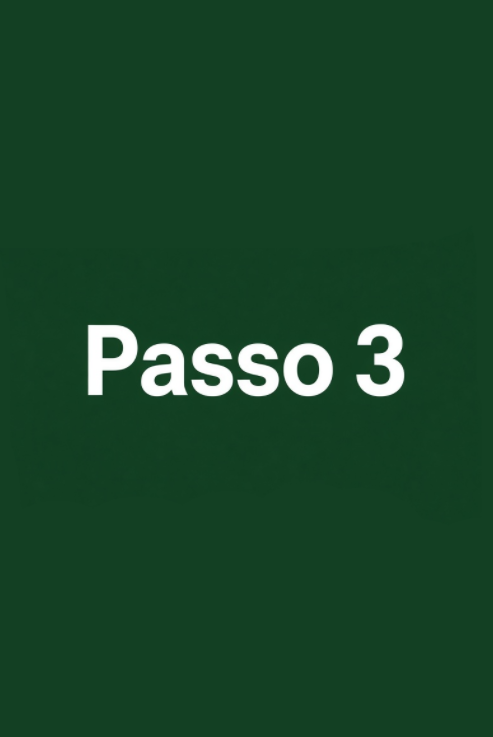
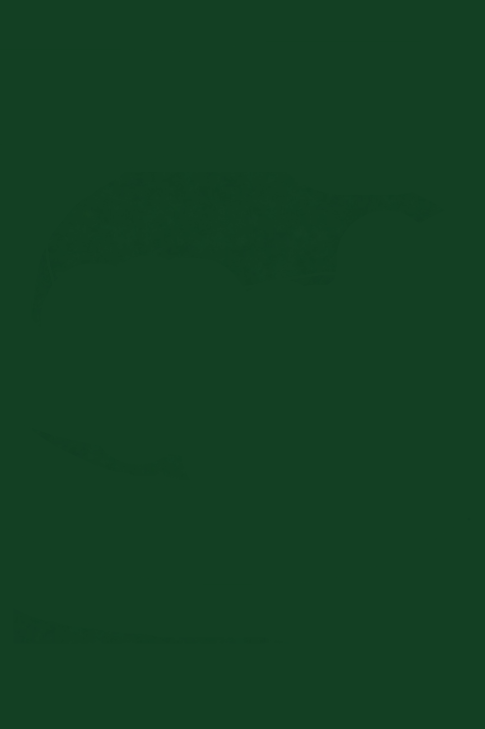
quase que acabei os passos.

Changed region(s): [[0.1546, 0.4225, 0.6804, 0.5432], [0.7113, 0.4225, 0.8351, 0.5432]]

diff --git a/index.html b/index.html
@@ -9,10 +9,8 @@
 </head>
 <body>
         <nav class="navBar">
-           <div class="logo-container">
                 <img class="logo1" src="assets/images/Logo.png">
                 <div class="logo">Eco Code Mobile</div>
-         </div>
                 <aside class="menu-navegação">
                       <!-- Menu-->
                       
@@ -37,16 +35,8 @@
 
     <main>
         <section class="texto-campanha">
-            
-            <p class="primeiro-texto">
-                
-                A reciclagem de equipamentos eletrónicos está a tornar-se cada vez mais importante, ajudando a reduzir o impacto ambiental causado pelo lixo tecnológico.
-            </p>
-
-            <p class="segundo-texto">
-                Mas o que acontece aos telemóveis Android que deixam de ser utilizados? Sem uma reciclagem adequada, podem contribuir para a poluição ambiental.
-            </p>
-
+            <p class="primeiro-texto">A reciclagem de equipamentos eletrónicos está a tornar-se cada vez mais importante, ajudando a reduzir o impacto ambiental causado pelo lixo tecnológico.</p>
+            <p class="segundo-texto">Mas o que acontece aos telemóveis Android que deixam de ser utilizados? Sem uma reciclagem adequada, podem contribuir para a poluição ambiental.</p>
         </section>
         <section class="objetivo">
                     <h2>Objetivos da Campanha</h2>
@@ -65,10 +55,11 @@
 
 
         </section>
-        <section>
+        <section class="passos">
             <div class="imagem">
                 <div class="imagem-inner">
                     <img class="frente" src="assets/images/image1.png">
+                    <p class="texto-frente">Como participar?</p>
                     <img class="verso" src="assets/images/image11.png">
                 </div>
             </div>
@@ -76,6 +67,7 @@
             <div class="imagem">
                 <div class="imagem-inner">
                     <img class="frente" src="assets/images/image2.png">
+                    <p class="texto-frente">Porquê reciclar?</p>
                     <img class="verso" src="assets/images/image22.png">
                 </div>
             </div>
@@ -83,6 +75,7 @@
             <div class="imagem">
                 <div class="imagem-inner">
                     <img class="frente" src="assets/images/image3.png">
+                    <p class="texto-frente">Onde entregar?</p>
                     <img class="verso" src="assets/images/image33.png">
                 </div>
             </div>
@@ -99,14 +92,15 @@
                     <!-- Objetivo da campanha -->
 
         
-        <section id="datas">
+        <section class="datas">
             <h2>Datas e Ponto de Recolha</h2>
             <p><strong>Datas:</strong> De [Por defenir] até [Por defenir]</p>
             <p><strong>Horário:</strong> [Por defenir]</p>
             <p><strong>Local:</strong> PBX, junto à Secretaria</p>
             <p><strong>Quem pode participar:</strong>Alunos, E.E, Professores, funcionários e restante comunidade escolar.</p>
         </section>
-        <section id="preparar">
+
+        <section class="preparar">
             <h2>Prepara o teu telemóvel!</h2>
             <p>Antes de entregares o teu telemóvel, segue estes passos:</p>
             <div class="passo">
@@ -127,6 +121,7 @@
             </div>
             <p class="aviso">Atenção! A reposição de fábrica elimina permanentemente os dados. Faz primeiro uma cópia de segurança. Se não souberes fazer os passos podemos ajudar.</p>
         </section>
+
     </main>
                 <footer id="sobre">
                     <section class="footer">

diff --git a/css/style.css b/css/style.css
@@ -1,5 +1,4 @@
 * {
-    box-sizing: border-box;
     margin: 0;
     padding: 0;      
 }
@@ -10,43 +9,21 @@ body {
     color: #222;
     background: #eef3e8;
 }
+
 .navBar {
-    position: relative;
+    position: fixed;
     width: 90%;
     min-height: 65px;
     margin: 30px ;
     padding: 0 30px;
-
     background: #171717;
     border-radius: 50px;
-
     display: flex;
     align-items: center;
     justify-content: space-between;
-
     z-index: 1000;
 }
 
-nav {
-    position: absolute;
-    top: 15px;
-    left: 5%;
-    width: 90%;
-    min-height: 65px;
-    height: 65px;
-    background: #171717;
-    color: #fff;
-    display: flex;
-    align-items: center;
-    justify-content: space-between;
-    flex-wrap: nowrap;
-    padding: 12px 5%;
-    transition: all 0.3s ease;
-    z-index: 1000;
-    border-radius:50px;
-}
-
-    
 nav.pequena {
     top: 5px;
     height: 55px;
@@ -61,29 +38,28 @@ nav a {
     text-decoration: none;
     margin-left: 20px;
 }
+
 .menu {
     display: none;
     flex-direction: column;
     align-items: flex-end;
     gap: 18px;
-
     position: absolute;
     top: 100%;
     right: 0;
-
     width: 230px;
     padding: 20px;
-
     background: #171717;
     border-radius: 15px;
     list-style: none;
     margin: 0;
-
     z-index: 1000;
 }
+
 .menu-navegação {
     position: relative;
 }
+
 .menu.active {
     display: flex;
 }
@@ -98,6 +74,7 @@ nav a {
 .menu a:hover {
     color: #8ac441;
 }
+
 /* Menu de navegação */
 .botao-menu {
     display: block;
@@ -110,10 +87,12 @@ nav a {
     border: none;
     transition: 0.3s;
 }
+
 .botao-menu:hover {
     background-color: #c2c9be;
     transform: translateY(-1px);
 }
+
 .logo {
     font-weight: bold;
     color: white;
@@ -159,7 +138,7 @@ nav a {
 .texto-campanha {
     max-width: 380px;
     margin: 120px auto;
-    font-family: Georgia, serif;
+    font-family: Arial, sans-serif;
     font-size: 21px;
     line-height: 1.2;
 }
@@ -172,10 +151,11 @@ nav a {
 .segundo-texto {
      color: #174b3a;
 }
-section {
+
+.passos {
     display: flex;
     justify-content: center;
-    gap: 20px;
+    gap: 30px;
     flex-direction: row;
     align-items: center;
 }
@@ -210,6 +190,25 @@ section {
     transform: rotateY(180deg);
 }
 
+.verso img {
+    width: 100%;
+    height: 100%;
+    object-fit: contain;
+}
+
+.texto-frente {
+    position: absolute;
+    backface-visibility: hidden;
+    top: 50%;
+    left: 50%;
+    transform: translate(-50%, -50%);
+    color: white;
+    font-size: 50px;
+    font-weight: bold;
+    text-align: center;
+    z-index: 1;
+}
+
 .objetivo {
     padding: 70px 10%;
     display: grid;
@@ -222,7 +221,7 @@ section {
 .objetivo h2 {
     grid-column: 1 / 3;
     text-align: center;
-    color: #121413
+    color: #121413;
     font-size: 34px;
     margin-bottom: 15px;
     position: relative;
@@ -259,31 +258,31 @@ section {
     transform: translateY(-5px);
 }
 
-#datas {
+.datas {
     padding: 30px;
     text-align: center;
     display: block;
 }
 
-#datas h2 {
+.datas h2 {
     color: green;
     font-size: 28px;
 }
 
-#datas p {
+.datas p {
     display: block;
     font-size: 18px;
     margin: 15px;
 }
 
-#preparar {
+.preparar {
     background-color: #eef3e8;
     padding: 40px;
     text-align: center;
     display: block;
 }
 
-#preparar h2 {
+.preparar h2 {
     color: green;
     font-size: 28px;
 }
@@ -365,7 +364,6 @@ footer p {
 .voltar-topo button:hover {
     background: white;
 }
-
 
 .cookies {
     position: fixed;

diff --git a/js/script.js b/js/script.js
@@ -1,4 +1,3 @@
-
 const navBar = document.getElementById('navBar');
 const botaoVoltarTopo = document.querySelector('#voltar-topo button');
 const imagens = document.querySelectorAll('.imagem-hover img');
@@ -34,8 +33,7 @@ const fundoCookies = document.getElementById('fundo-cookies');
 const botaoAceitar = document.getElementById('aceitar');
 const botaoRecusar = document.getElementById('recusar');
 
-document.documentElement.classList.add('bloqueado');
-document.body.classList.add('bloqueado');
+
 
 function fecharCookies() {
     caixaCookies.style.display = 'none';
